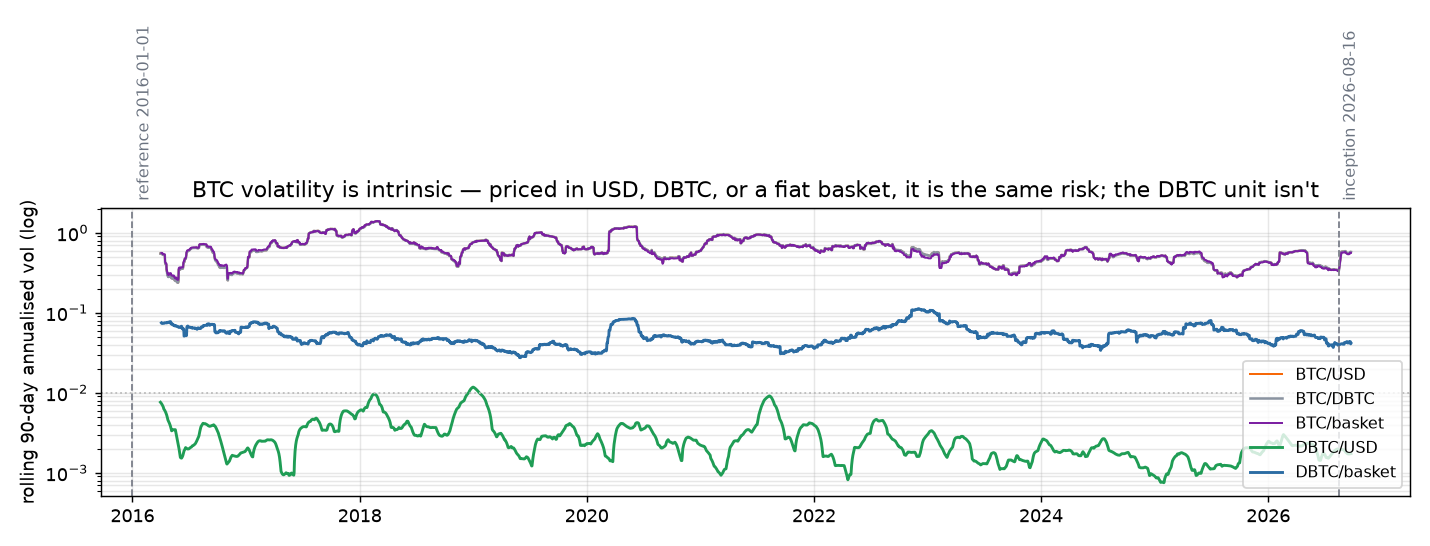
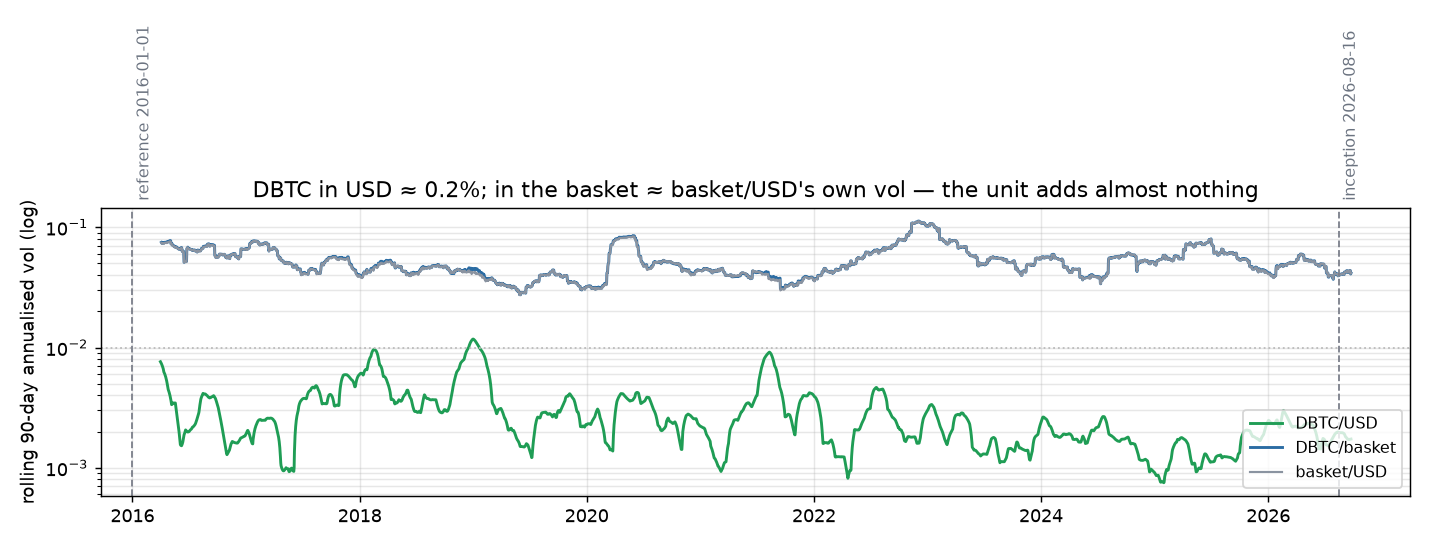
feat: focus early section on volatility compared to basket of currencies

diff --git a/track.py b/track.py
@@ -2,12 +2,11 @@
 """track.py — the "Status" block + volatility chart for the README.
 
 The difficulty->price law is frozen (fitted once, then immutable); only the
-difficulty / BTC price / ECB FX feeds move. This script refreheras those feeds
+difficulty / BTC price / ECB FX feeds move. This script refreshes those feeds
 and rewrites the small Status block in README.md plus out/track.png — a single
-rolling-volatility chart that makes the whole point in one image: BTC's
-volatility is intrinsic (same priced in USD, DBTC, or a fiat basket), and the
-DBTC unit itself is the stable thing (in USD ~0.2%, in the fiat basket it
-inherits FX noise).
+rolling-volatility chart that makes the whole point in one image: the DBTC unit
+adds almost nothing on top of whatever numeraire it is quoted in (DBTC/USD
+~0.2% vs DBTC/basket ~4%, which is simply basket/USD's own volatility).
 
 Usage:
     python track.py                # refresh stale feeds, then update README
@@ -42,8 +41,7 @@ REF = "2016-01-01"                                       # reference date (norma
 STATUS_START, STATUS_END = "<!-- dbtc:status:start -->", "<!-- dbtc:status:end -->"
 VOL_WINDOW = 90
 # spot=orange · dbtc=green are the repo-wide rules; the rest are fixed too.
-LINE = {"BTC/USD": ("#f76707", 1.1), "BTC/DBTC": ("#8a93a0", 1.4), "BTC/basket": ("#7b1fa2", 1.1),
-        "DBTC/USD": ("#1f9d55", 1.6), "DBTC/basket": ("#2b6ca3", 1.6)}
+LINE = {"DBTC/USD": ("#1f9d55", 1.6), "DBTC/basket": ("#2b6ca3", 1.6), "basket/USD": ("#8a93a0", 1.2)}
 
 
 def refresh(force: bool) -> None:
@@ -71,10 +69,9 @@ def load_series() -> pd.DataFrame:
 
     out = pd.DataFrame({
         "DBTC/USD": dbtc,                                # the frozen law itself
-        "BTC/USD": spot,                                 # price of BTC in USD
-        "BTC/DBTC": spot / dbtc,                         # price of BTC in DBTC
+        "BTC/USD": spot,                                 # spot, for the "now" line
+        "basket/USD": fx_basket,                         # the fiat basket vs USD (units/USD)
         "DBTC/basket": dbtc * fx_basket,                 # the unit quoted in the fiat basket
-        "BTC/basket": spot * fx_basket,                  # price of BTC in the fiat basket
     })
     return out
 
@@ -94,8 +91,9 @@ def freshness() -> tuple[str, str, str]:
 def build_status(law: dict, w: pd.DataFrame, diff_s: str, spot_s: str) -> str:
     now = w["DBTC/USD"].iloc[-1]
     spot = w["BTC/USD"].iloc[-1]
-    v_busd, v_bdtc, v_bb = (annvol(w[k]) * 100 for k in ("BTC/USD", "BTC/DBTC", "BTC/basket"))
-    v_unit, v_bask = annvol(w["DBTC/USD"]) * 100, annvol(w["DBTC/basket"]) * 100
+    v_unit = annvol(w["DBTC/USD"]) * 100
+    v_bask = annvol(w["DBTC/basket"]) * 100
+    v_fx = annvol(w["basket/USD"]) * 100
     return f"""\
 _Updated {datetime.now(timezone.utc):%Y-%m-%d %H:%M} UTC · data {diff_s} / spot {spot_s} · law set {law['calc_date']}_
 
@@ -103,8 +101,9 @@ _Updated {datetime.now(timezone.utc):%Y-%m-%d %H:%M} UTC · data {diff_s} / spot
 
 ![track](out/track.png)
 
-_BTC is ~{v_busd:.0f}% volatile whether priced in **USD, DBTC, or a fiat basket** ({v_bdtc:.0f}% / {v_bb:.0f}%); the DBTC unit itself is **{v_unit:.2f}%** in USD
-and {v_bask:.1f}% in the basket (that spread is pure fiat FX). The law is holding when the three BTC frames overlap high and the two unit lines sit far below._"""
+_DBTC quoted in USD is ~**{v_unit:.2f}%** (90d) — barely a daily ripple. Quoted in the fiat basket it is ~{v_bask:.1f}%,
+which is essentially the basket's own volatility vs USD (~{v_fx:.1f}%): the unit adds almost nothing on top of
+whatever numeraire it is quoted in. The law is holding while these three lines stay close._"""
 
 
 def replace_block(start: str, end: str, text: str) -> None:
@@ -118,8 +117,9 @@ def replace_block(start: str, end: str, text: str) -> None:
 
 
 def write_chart(law: dict, w: pd.DataFrame) -> Path:
-    """Rolling annualised volatility of the price of BTC in USD / DBTC / basket,
-    plus the DBTC unit in USD and in the basket — the whole argument in one image."""
+    """Rolling annualised volatility of DBTC in USD vs in the fiat basket, against
+    the basket's own volatility vs USD — the unit adds almost nothing on top of
+    whatever it is quoted in."""
     fig, ax = plt.subplots(figsize=(11, 4.2))
     for k in LINE:
         vol = w[k].pct_change().rolling(VOL_WINDOW).std() * np.sqrt(365)
@@ -133,7 +133,7 @@ def write_chart(law: dict, w: pd.DataFrame) -> Path:
         ax.annotate(lab, xy=(t, ax.get_ylim()[1]), xytext=(2, 4), textcoords="offset points",
                     fontsize=9, color="#6b7380", ha="left", va="bottom", rotation=90)
     ax.set_ylabel(f"rolling {VOL_WINDOW}-day annualised vol (log)")
-    ax.set_title("BTC volatility is intrinsic — priced in USD, DBTC, or a fiat basket, it is the same risk; the DBTC unit isn't")
+    ax.set_title("DBTC in USD ≈ 0.2%; in the basket ≈ basket/USD's own vol — the unit adds almost nothing")
     ax.legend(loc="lower right", fontsize=9)
     ax.grid(alpha=0.3, which="both")
     ax.xaxis.set_major_formatter(mdates.DateFormatter("%Y"))

diff --git a/README.md b/README.md
@@ -12,14 +12,15 @@ The law was fitted **once** (on the data that existed 2026-08-16) and is then im
 smoothing, reference date 2016-01-01. Only network difficulty and ECB FX move. Is it holding?
 
 <!-- dbtc:status:start -->
-_Updated 2026-09-25 11:37 UTC · data 2026-09-24 / spot 2026-09-25 · law set 2026-08-16_
+_Updated 2026-09-25 11:43 UTC · data 2026-09-24 / spot 2026-09-25 · law set 2026-08-16_
 
 1 DBTC = **$89,593** · spot BTC = $84,385 — rolling 90-day annualised volatility:
 
 ![track](out/track.png)
 
-_BTC is ~58% volatile whether priced in **USD, DBTC, or a fiat basket** (58% / 56%); the DBTC unit itself is **0.17%** in USD
-and 4.2% in the basket (that spread is pure fiat FX). The law is holding when the three BTC frames overlap high and the two unit lines sit far below._
+_DBTC quoted in USD is ~**0.17%** (90d) — barely a daily ripple. Quoted in the fiat basket it is ~4.2%,
+which is essentially the basket's own volatility vs USD (~4.2%): the unit adds almost nothing on top of
+whatever numeraire it is quoted in. The law is holding while these three lines stay close._
 <!-- dbtc:status:end -->
 
 _Regenerate with `python track.py` (`--force` re-downloads)._
